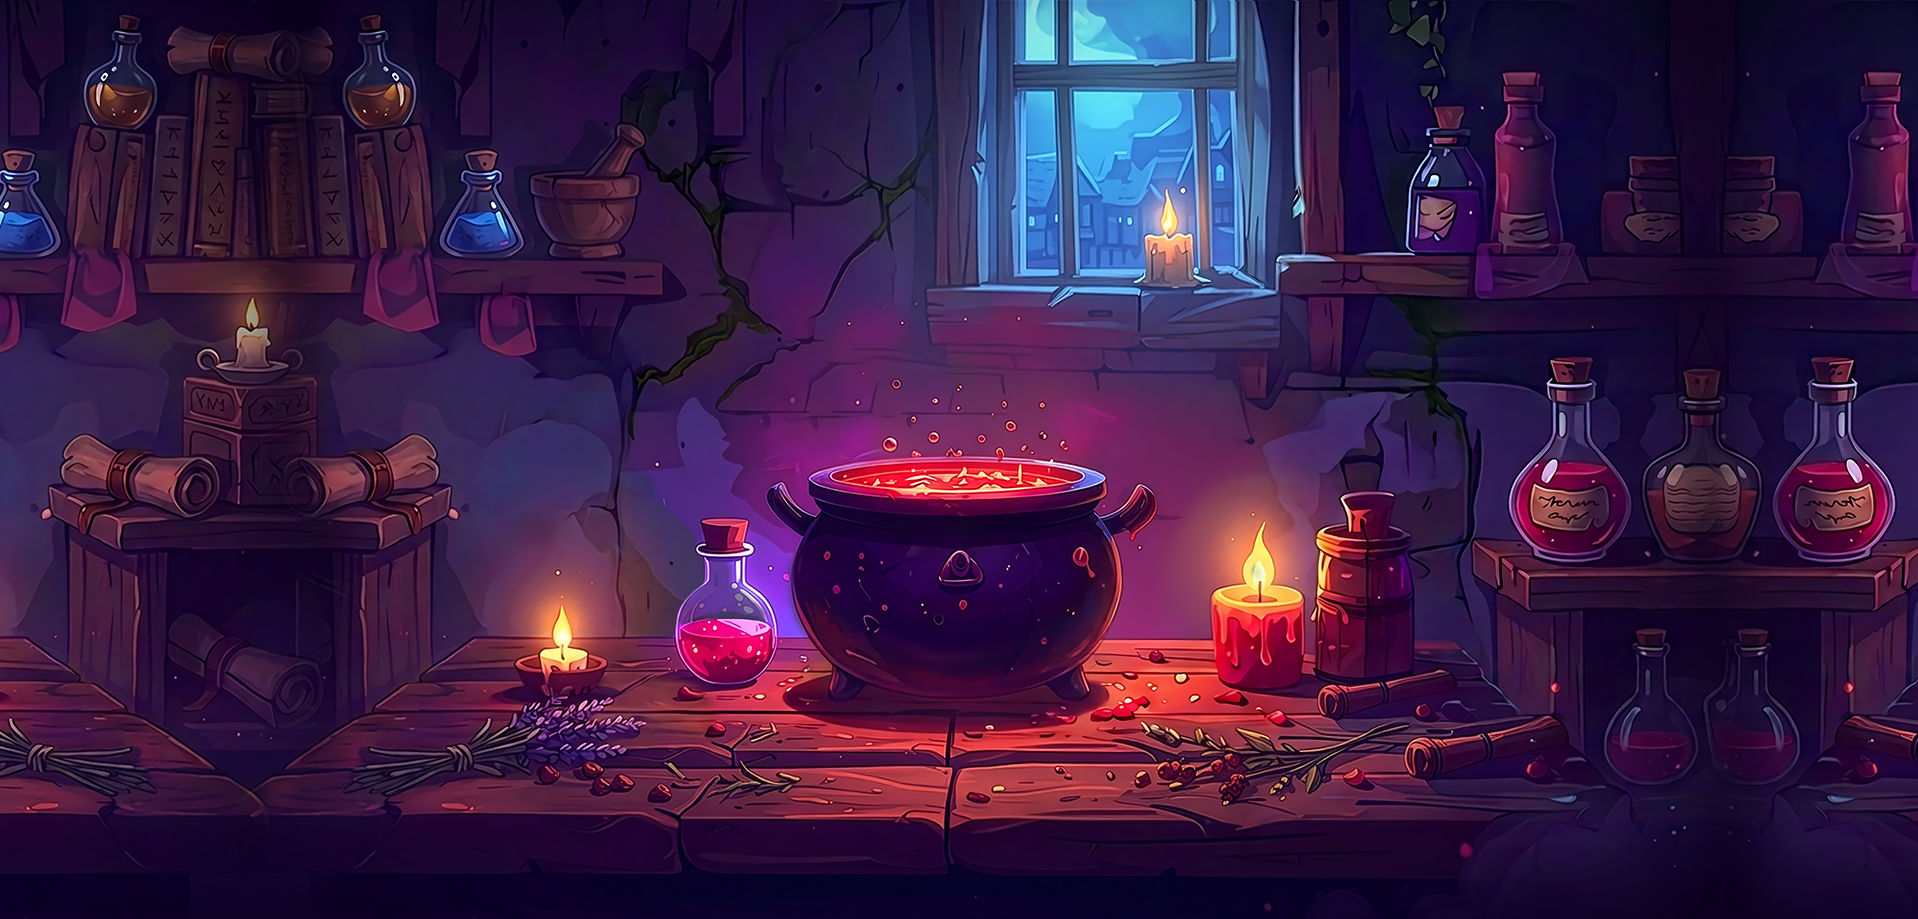
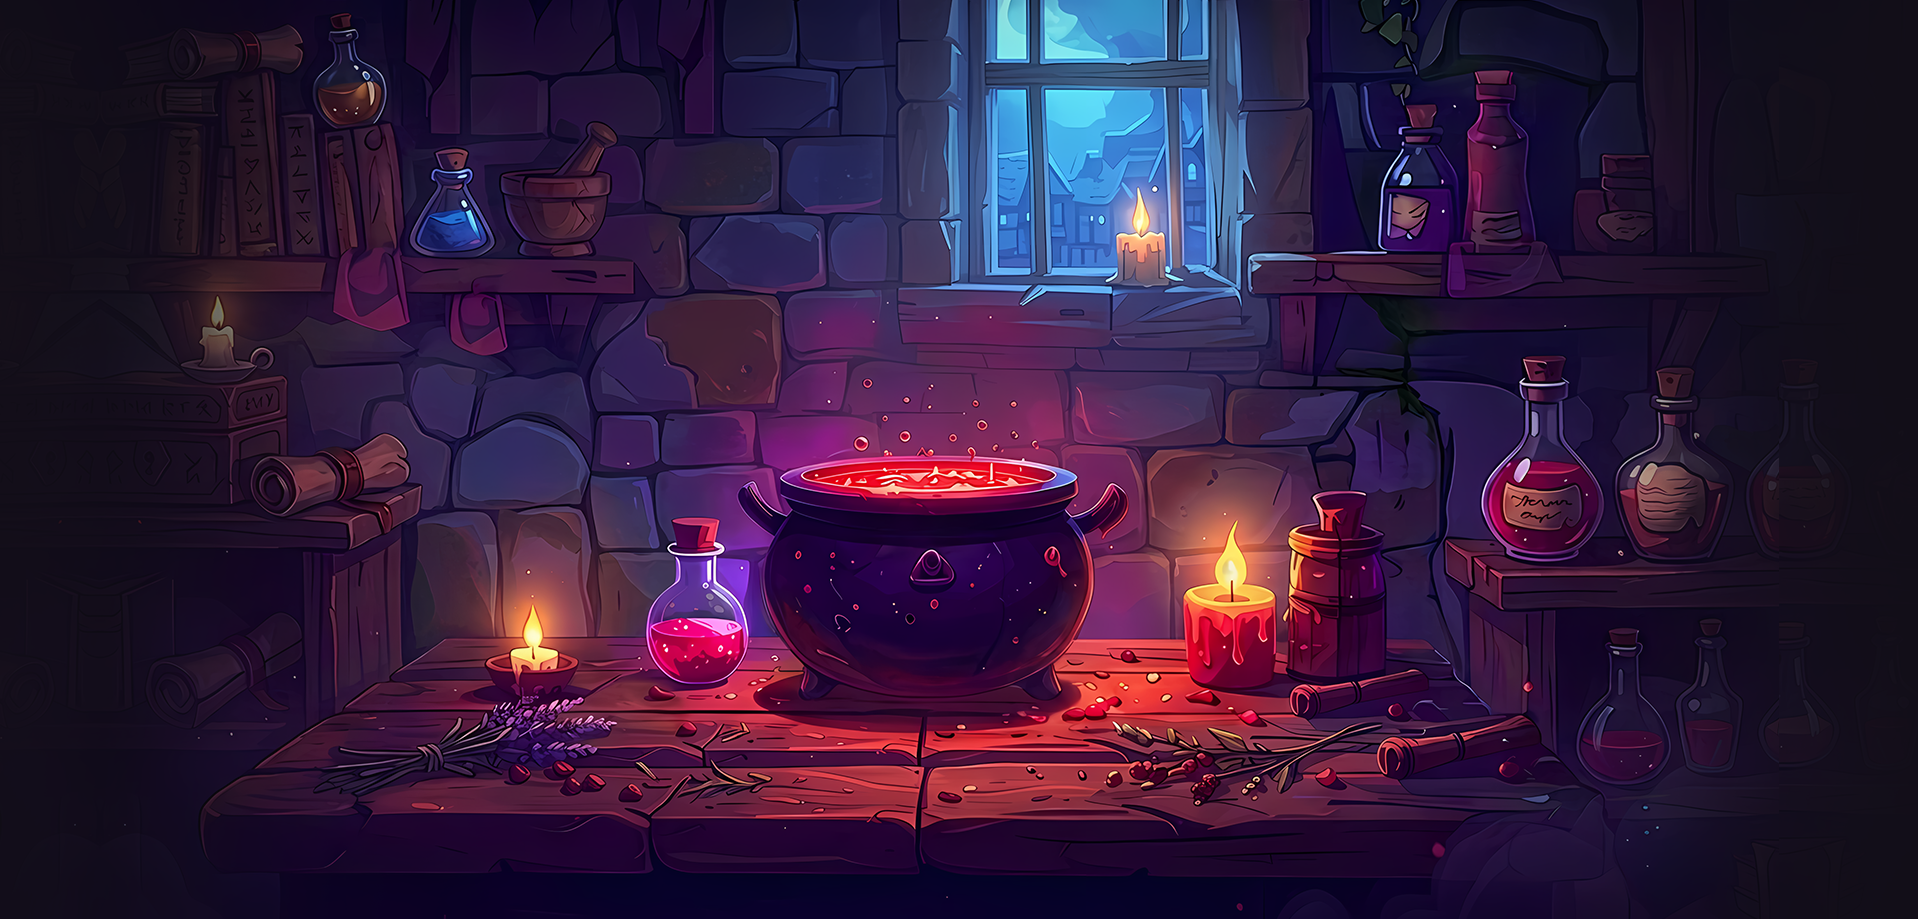
creation component craft & bug fix on creation modal

diff --git a/src/components/Game/index.jsx b/src/components/Game/index.jsx
@@ -10,6 +10,7 @@ import Menu from "@/components/Menu";
 import "./Game.css";
 import MusicPlayer from "@/components/MusicPlayer";
 import PlayerHud from "@/components/PlayerHud";
+import Craft from "@/components/Craft"
 import EndGame from "@/components/Modal/EndGame";
 import Creation from "@/components/Modal/Creation";
 import { ToastProvider } from "@/context/ToastContext";
@@ -298,6 +299,7 @@ const Game = () => {
               onClose={() => setShowEndGame(false)}
               onRestart={handleRestartProgress}
             />
+            <Craft/>
             <PlayerHud
               playerLevel={playerLevel}
               xpPercent={xpProgressPercent}

diff --git a/src/components/Craft/index.jsx b/src/components/Craft/index.jsx
@@ -1,0 +1,13 @@
+import "./Craft.css";
+import Cauldron from "@/assets/images/cauldron.png";
+
+const Craft = () => { 
+
+    return(
+        <div className="cauldron">
+            <img className="test no-repeat bg-cover fixed bottom-[215px] right-[780px]" src={Cauldron} alt="" style={{ backgroundImage: `url(${Cauldron})`, width:'395px' }} />
+        </div>
+    );
+}
+
+export default Craft;

diff --git a/src/components/Modal/Creation/index.jsx b/src/components/Modal/Creation/index.jsx
@@ -215,7 +215,7 @@ const Creation = () => {
                     onChange={handleChange}
                     placeholder="Entrez votre pseudo..."
                     className="creation-input w-full "
-                    spellcheck="false"
+                    spellCheck="false"
                   />
                 </div>
               </div>

diff --git a/src/components/Craft/Craft.css b/src/components/Craft/Craft.css
@@ -1,0 +1,8 @@
+.cauldron{
+	/* @apply
+		fixed 
+		w-[395px]
+		bottom-[24%]
+		left-[38%]
+	; */
+}
